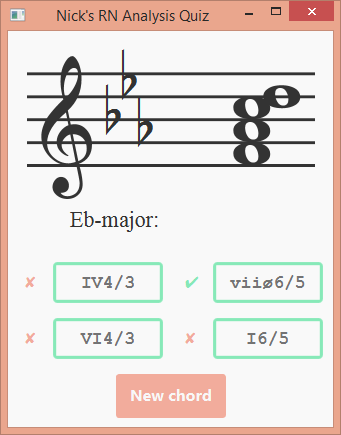
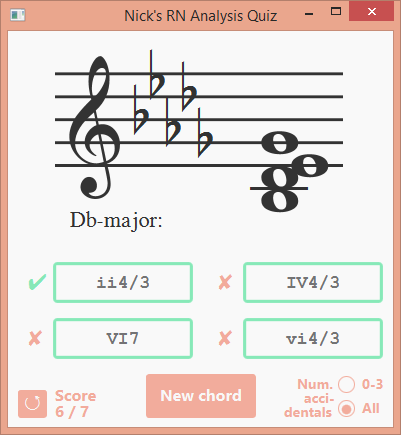
Improved interface prettiness

diff --git a/ChordGenerator/CGStyles.css b/ChordGenerator/CGStyles.css
@@ -2,11 +2,9 @@
     -fx-font-size: 16;
     -fx-background-color: #f9f9f9;
 }
-
 .button:pressed, .button:default:hover:pressed {
   -fx-background-color: #666666;
 }
-
 #gcButton {
     -fx-border-color: #f2ac9c; 
     -fx-border-width: 3px;
@@ -14,12 +12,10 @@
     -fx-background-color: #f2ac9c; 
     -fx-text-fill: #f9f9f9;
 }
-
 #gcButton:pressed { 
     -fx-background-color: #f9f9f9; 
     -fx-text-fill: #f2ac9c;
 }
-
 #answerButtons {
     -fx-border-color: #87e9b8; 
     -fx-border-width: 3px;
@@ -30,4 +26,46 @@
 #answerButtons:pressed {
     -fx-background-color: #87e9b8; 
     -fx-text-fill: #ffffff;   
+}
+#score {
+   -fx-text-fill: #f2ac9c;
+   -fx-font-weight: bold;
+}
+#refresh {
+   -fx-border-color: #f2ac9c; 
+   -fx-border-width: 2px;
+   -fx-border-radius: 2px;
+   -fx-background-color: #f2ac9c; 
+   -fx-text-fill: #f9f9f9;
+}
+#refresh:pressed { 
+    -fx-border-width: 2px;
+    -fx-border-radius: 2px;
+    -fx-background-color: #f9f9f9; 
+    -fx-text-fill: #f2ac9c;
+}
+#numAccidentals {
+   -fx-text-fill: #f2ac9c;
+   -fx-font-weight: bold;
+   -fx-font-size: 14;
+}
+#difficulty {
+   -fx-text-fill: #f2ac9c;
+   -fx-font-weight: bold;
+   -fx-font-size: 14;
+}
+.radio-button .radio  {
+   -fx-background-color: #f9f9f9, #f9f9f9, #f2ac9c, #f9f9f9;
+   -fx-background-insets: 0 0 -1 0,  0,  1,  2;
+   -fx-background-radius: 1.0em; /* large value to make sure this remains circular */
+   -fx-padding: 0.333333em; /* 4 -- padding from outside edge to the inner black dot */
+}
+.radio-button .dot {
+  -fx-mark-color:  #f2ac9c ;
+}
+.radio-button:hover .radio {
+    -fx-color: #f9f9f9;
+}
+.radio-button:selected .dot {
+   -fx-background-color: #f2ac9c;
 }

diff --git a/ChordGenerator/ChordGeneratorGUI.java b/ChordGenerator/ChordGeneratorGUI.java
@@ -47,17 +47,21 @@ public class ChordGeneratorGUI extends Application {
 	GridPane myGridPane, musicStaffGridPane;
 	Button answerButton1, answerButton2,
 		answerButton3, answerButton4,
-		generateChordButton;
+		generateChordButton, refreshButton;
 	Button[] answerButtonArray;
 	Label questionLabel, correctMsgLabel,
 		aLabel, bLabel, cLabel, dLabel,
-		keyLabel, notesLabel;
+		keyLabel, notesLabel, scoreLabel,
+		scorePointsLabel, numLabel, acciLabel,
+		dentalsLabel;
 	Label[] qLabels;
+	RadioButton easyRadio, hardRadio;
+	ToggleGroup difficultyRadios;
 	Scene scene;
-	boolean a1, a2, a3, a4;
+	boolean a1, a2, a3, a4, stopCounting;
 	String rightAnswer, wrongAnswer;
 	String[] wrongAnswerArray;
-	int rightAnswerIndex;
+	int rightAnswerIndex, correct, total;
 
 	//JavaFX music staff members
 	Font musicFont55, musicFont58, musicFont115, musicFont120, musicFont160; //numbers at end of variable name refer to font sizes
@@ -148,6 +152,10 @@ public class ChordGeneratorGUI extends Application {
 		ledgerLineC4 = new Label("\u2015");
 		suppLedgerLineC4 = new Label("\u2015");
 		ledgerLineA5 = new Label("\u2015");
+		scoreLabel = new Label("Score\n");
+		scorePointsLabel = new Label(correct + " / " + total);
+		refreshButton = new Button("\u21BA");
+
 		noteheads = new Label[] {
 			notehead0, notehead1,
 			notehead2, notehead3, notehead4,
@@ -215,9 +223,17 @@ public class ChordGeneratorGUI extends Application {
 			"rather than something like, \"V7 of I in the relative\n" +
 			"major.\""
 		);
+		numLabel = new Label("Num.");
+		acciLabel = new Label("acci-");
+		dentalsLabel = new Label("dentals");
 		qLabels = new Label[] {aLabel,
 			bLabel, cLabel, dLabel
 		};
+		easyRadio = new RadioButton("0-3");
+		hardRadio = new RadioButton("All");
+		difficultyRadios = new ToggleGroup();
+		easyRadio.setToggleGroup(difficultyRadios);
+		hardRadio.setToggleGroup(difficultyRadios);
 
 		//add to GridPanes
 		//myGridPane.add(questionLabel, 0, 0);
@@ -267,7 +283,15 @@ public class ChordGeneratorGUI extends Application {
 		myGridPane.add(answerButton3, 1, 5);
 		myGridPane.add(dLabel, 2, 5);
 		myGridPane.add(answerButton4, 3, 5);
-		myGridPane.add(generateChordButton, 0, 6);
+		myGridPane.add(scoreLabel, 0, 6);
+		myGridPane.add(scorePointsLabel, 0, 6);
+		myGridPane.add(refreshButton, 0, 6);
+		myGridPane.add(generateChordButton, 1, 6);
+		myGridPane.add(numLabel, 3, 6);
+		myGridPane.add(acciLabel, 3, 6);
+		myGridPane.add(dentalsLabel, 3, 6);
+		myGridPane.add(easyRadio, 3, 6);
+		myGridPane.add(hardRadio, 3, 6);
 		//myGridPane.add(correctMsgLabel, 0, 7);
 		//myGridPane.add(notesLabel, 0, 8);
 
@@ -278,7 +302,10 @@ public class ChordGeneratorGUI extends Application {
 		GridPane.setColumnSpan(questionLabel, 4);
 		GridPane.setColumnSpan(keyLabel, 4);
 		GridPane.setColumnSpan(correctMsgLabel, 4);
-		GridPane.setColumnSpan(generateChordButton, 4);
+		GridPane.setColumnSpan(generateChordButton, 3);
+		GridPane.setColumnSpan(scoreLabel, 2);
+		GridPane.setColumnSpan(scorePointsLabel, 2);
+		GridPane.setColumnSpan(refreshButton, 2);
 		GridPane.setColumnSpan(notesLabel, 4);
 		GridPane.setColumnSpan(musicStaffGridPane, 4);
 		GridPane.setHalignment(generateChordButton, HPos.CENTER);
@@ -286,17 +313,17 @@ public class ChordGeneratorGUI extends Application {
 		GridPane.setHalignment(correctMsgLabel, HPos.CENTER);
 		GridPane.setHalignment(keyLabel, HPos.LEFT);
 		GridPane.setHalignment(notesLabel, HPos.CENTER);
-		answerButton1.setMinWidth(110);
-		answerButton2.setMinWidth(110);
-		answerButton3.setMinWidth(110);
-		answerButton4.setMinWidth(110);
+		answerButton1.setMinWidth(140);
+		answerButton2.setMinWidth(140);
+		answerButton3.setMinWidth(140);
+		answerButton4.setMinWidth(140);
 		GridPane.setHalignment(aLabel, HPos.LEFT);
 		GridPane.setHalignment(bLabel, HPos.RIGHT);
 		GridPane.setHalignment(cLabel, HPos.LEFT);
 		GridPane.setHalignment(dLabel, HPos.RIGHT);;
 		questionLabel.setPadding(new Insets(0, 0, 20, 0));
 		keyLabel.setTranslateX(52);
-		musicStaffGridPane.setTranslateX(9);
+		musicStaffGridPane.setTranslateX(37);
 
 		//tediousness
 		fSharp.setTranslateY(-60);		fSharp.setTranslateX(-20);
@@ -355,19 +382,46 @@ public class ChordGeneratorGUI extends Application {
 		for (Label nh: noteheads) {
 			nh.setFont(musicFont115);
 		}
-		keyLabel.setFont(Font.font("Serif", 22));
+		scoreLabel.setId("score");
+		scorePointsLabel.setId("score");
+		refreshButton.setId("refresh");
+		refreshButton.setFont(Font.loadFont(getClass().getResourceAsStream("FreeSerif.ttf"), 20));
+		refreshButton.setPadding(new Insets(0, 4, 0, 4));
+		scoreLabel.setTranslateY(0);
+		scoreLabel.setTranslateX(37);
+		scorePointsLabel.setTranslateY(16);
+		scorePointsLabel.setTranslateX(37);
+		refreshButton.setTranslateY(8);
+		numLabel.setId("numAccidentals");
+		acciLabel.setId("numAccidentals");
+		dentalsLabel.setId("numAccidentals");
+		numLabel.setTranslateY(-12);
+		numLabel.setTranslateX(54);
+		acciLabel.setTranslateY(2);
+		acciLabel.setTranslateX(61);
+		dentalsLabel.setTranslateY(16);
+		dentalsLabel.setTranslateX(41);
+		easyRadio.setId("difficulty");
+		hardRadio.setId("difficulty");
+		easyRadio.setTranslateY(-12);
+		easyRadio.setTranslateX(94);
+		hardRadio.setTranslateY(12);
+		hardRadio.setTranslateX(94);
+		hardRadio.setSelected(true);
+		keyLabel.setFont(Font.loadFont(getClass().getResourceAsStream("FreeSerif.ttf"), 22));
 		questionLabel.setFont(Font.font(null, 18));
 		questionLabel.setStyle("-fx-text-fill: #737374;");
 		correctMsgLabel.setFont(Font.font(null, FontWeight.BOLD, 16));
 		correctMsgLabel.setStyle("-fx-text-fill: #737374;");
 		for (Label l: qLabels) {
 			l.setMinWidth(20);
-			l.setTranslateX(7);
+			l.setTranslateX(10);
 			l.setId("qLabels");
-			l.setFont(Font.font("FreeSerif", 16));
+			l.setFont(Font.loadFont(getClass().getResourceAsStream("FreeSerif.ttf"), 22));
 		}
 		generateChordButton.setFont(Font.font(null, FontWeight.BOLD, 16));
 		generateChordButton.setId("gcButton");
+		generateChordButton.setTranslateX(-17);
 
 		//set Listeners
 		generateChordButton.setOnAction((ActionEvent e) -> {
@@ -376,10 +430,21 @@ public class ChordGeneratorGUI extends Application {
 		answerButton1.setOnAction((ActionEvent e) -> {
 			if (rightAnswer != null && rightAnswerIndex == 0) {
 				//correctMsgLabel.setText("Correct!");
+				if (!stopCounting) {
+					correct++;
+					total++;
+					scorePointsLabel.setText(correct + " / " + total);
+					stopCounting = true;
+				}
 				aLabel.setText("\u2714");
 				aLabel.setStyle("-fx-text-fill: #87e9b8;");
 			} else if (rightAnswer != null) {
 				//correctMsgLabel.setText("Incorrect.");
+				if (!stopCounting) {
+					total++;
+					scorePointsLabel.setText(correct + " / " + total);
+					stopCounting = true;
+				}
 				aLabel.setText("\u2718");
 				aLabel.setStyle("-fx-text-fill: #f2ac9c;");
 			}
@@ -387,10 +452,21 @@ public class ChordGeneratorGUI extends Application {
 		answerButton2.setOnAction((ActionEvent e) -> {
 			if (rightAnswer != null && rightAnswerIndex == 1) {
 				//correctMsgLabel.setText("Correct!");
+				if (!stopCounting) {
+					correct++;
+					total++;
+					scorePointsLabel.setText(correct + " / " + total);
+					stopCounting = true;
+				}
 				bLabel.setText("\u2714");
 				bLabel.setStyle("-fx-text-fill: #87e9b8;");
 			} else if (rightAnswer != null) {
 				//correctMsgLabel.setText("Incorrect.");
+				if (!stopCounting) {
+					total++;
+					scorePointsLabel.setText(correct + " / " + total);
+					stopCounting = true;
+				}
 				bLabel.setText("\u2718");
 				bLabel.setStyle("-fx-text-fill: #f2ac9c;");
 			}
@@ -398,10 +474,21 @@ public class ChordGeneratorGUI extends Application {
 		answerButton3.setOnAction((ActionEvent e) -> {
 			if (rightAnswer != null && rightAnswerIndex == 2) {
 				//correctMsgLabel.setText("Correct!");
+				if (!stopCounting) {
+					correct++;
+					total++;
+					scorePointsLabel.setText(correct + " / " + total);
+					stopCounting = true;
+				}
 				cLabel.setText("\u2714");
 				cLabel.setStyle("-fx-text-fill: #87e9b8;");
 			} else if (rightAnswer != null) {
 				//correctMsgLabel.setText("Incorrect.");
+				if (!stopCounting) {
+					total++;
+					scorePointsLabel.setText(correct + " / " + total);
+					stopCounting = true;
+				}
 				cLabel.setText("\u2718");
 				cLabel.setStyle("-fx-text-fill: #f2ac9c;");
 			}
@@ -409,13 +496,29 @@ public class ChordGeneratorGUI extends Application {
 		answerButton4.setOnAction((ActionEvent e) -> {
 			if (rightAnswer != null && rightAnswerIndex == 3) {
 				//correctMsgLabel.setText("Correct!");
+				if (!stopCounting) {
+					correct++;
+					total++;
+					scorePointsLabel.setText(correct + " / " + total);
+					stopCounting = true;
+				}
 				dLabel.setText("\u2714");
 				dLabel.setStyle("-fx-text-fill: #87e9b8;");
 			} else if (rightAnswer != null) {
 				//correctMsgLabel.setText("Incorrect.");
+				if (!stopCounting) {
+					total++;
+					scorePointsLabel.setText(correct + " / " + total);
+					stopCounting = true;
+				}
 				dLabel.setText("\u2718");
 				dLabel.setStyle("-fx-text-fill: #f2ac9c;");
 			}
+		});
+		refreshButton.setOnAction((ActionEvent e) -> {
+			correct = 0;
+			total = 0;
+			scorePointsLabel.setText(correct + " / " + total);
 		});
 
 		//set up scene/stage
@@ -534,6 +637,7 @@ public class ChordGeneratorGUI extends Application {
 		System.out.printf("%-2s]%n", arr[arr.length - 1]);
 	}
 	public void getRandomChord() {
+		stopCounting = false;
 		correctMsgLabel.setText(null); //erases label until user answers next question
 		clearChecksAndXs();
 
@@ -541,7 +645,7 @@ public class ChordGeneratorGUI extends Application {
 		//so I can just use lengths of the zeroth index of things like chords[0].length with confidence
 		int a = (int)(Math.random() * chords.length), //chords.length == 2
 			b = (int)(Math.random() * chords[0].length), //chords[0].length == 4
-			c = (int)(Math.random() * chords[0][0].length), //chords[0][0].length == 8
+			c = (int)(Math.random() * (easyRadio.isSelected() ? 4 : chords[0][0].length)), //chords[0][0].length == 8
 			d = (int)(Math.random() * chords[0][0][0].length); //chords[0][0][0].length == 7
 		String[] aRandomChord = chords[a][b][c][d],
 				 aRandomChordShuffled = shuffleChord(aRandomChord);
